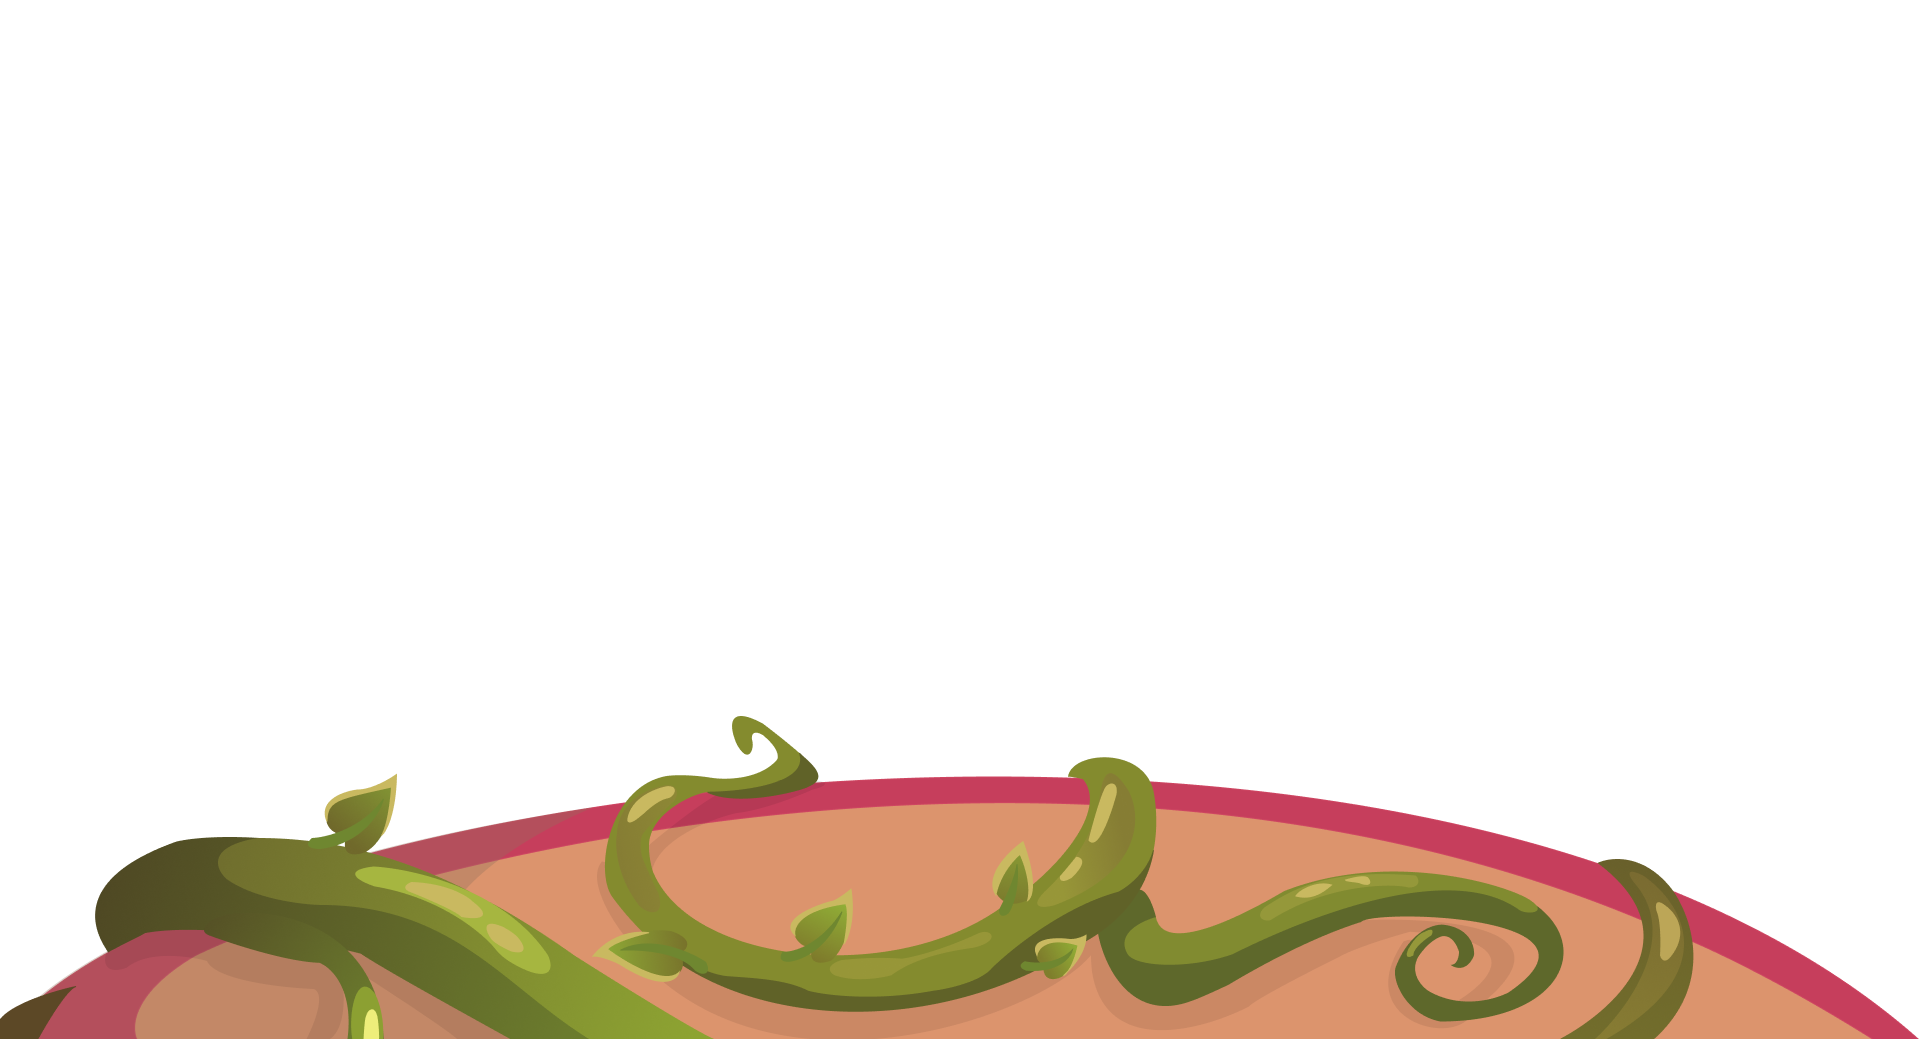
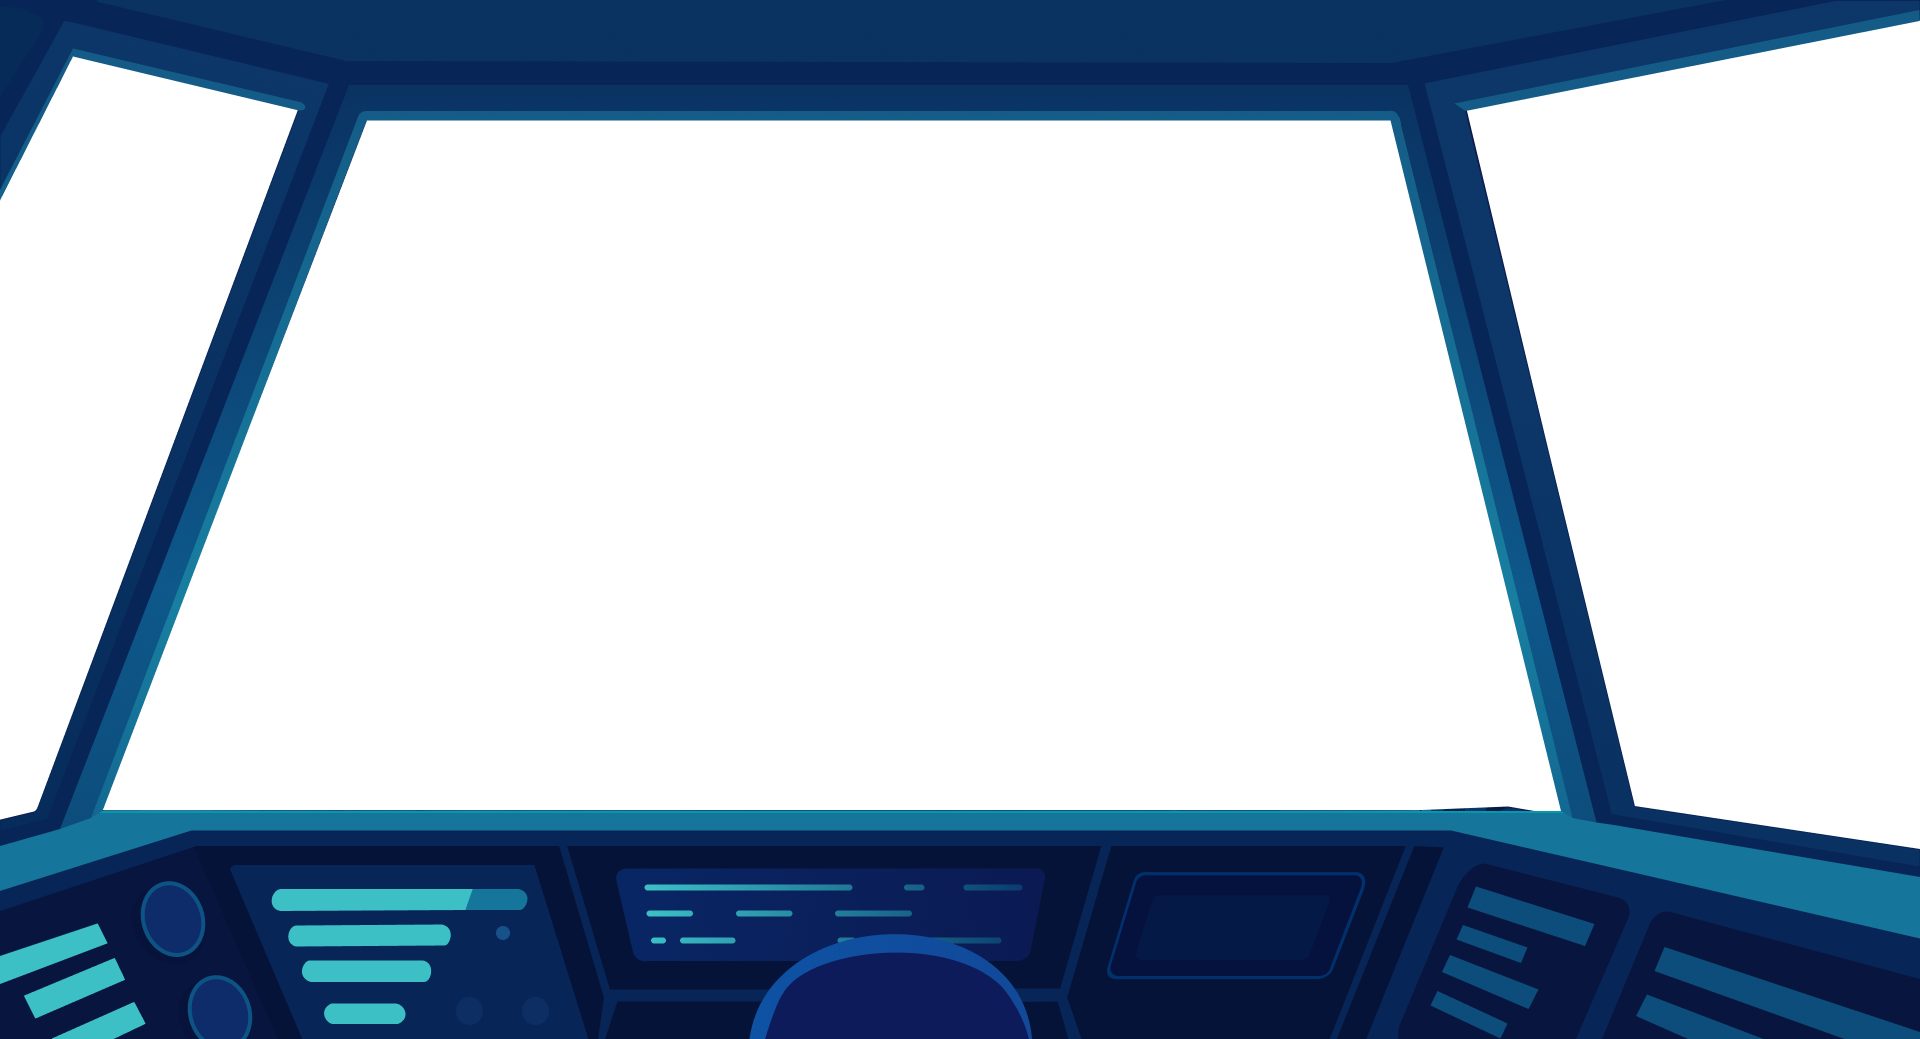
feat: base fase3

diff --git a/src/app/fase/3/GameScreen.tsx b/src/app/fase/3/GameScreen.tsx
@@ -1,0 +1,141 @@
+"use client";
+
+import NavbarGame from "@/components/NavbarGame";
+import Thermometer from "@/components/Thermometer";
+import Star from "@/components/Star";
+import SettingsModal from "@/components/SettingsModal";
+import { useEffect, useState } from "react";
+import { Bolt } from "lucide-react";
+import { useGameContext } from "@/context/GameContext";
+import { AnimatedElement } from "@/components/AnimatedElements/AnimatedElement";
+import { useGameLogic } from "./useGameLogic";
+import { animatedElements } from "@/config/gameConfig";
+import TimeOut from "@/components/TimeOut";
+import SuccessScreen from "@/components/SuccessScreen";
+import { useAudio } from "@/context/AudioContext";
+import OverlayInstruction from "@/components/Calibration/OverlayInstruction";
+import { fase1Steps } from "@/constants/steps";
+
+export default function GameScreen() {
+  const { stars, level, handleHit, handleError } = useGameLogic();
+  const [isModalOpen, setIsModalOpen] = useState(false);
+  const [isTimeUpModalOpen, setIsTimeUpModalOpen] = useState(false);
+  const {
+    isPaused,
+    setIsPaused,
+    setIsGameActive,
+    audioGameStarted,
+    setAudioGameStarted,
+    isGameActive,
+    hits,
+    timeLeft,
+  } = useGameContext();
+  const [showSuccessModal, setShowSuccessModal] = useState(false);
+
+  const { startAudio } = useAudio();
+
+  const handleStartGame = () => {
+    setIsGameActive(true);
+    setAudioGameStarted(true);
+    startAudio();
+  };
+
+  useEffect(() => {
+    if (timeLeft === 0) {
+      setIsTimeUpModalOpen(true);
+      setIsPaused(true);
+    }
+  }, [timeLeft]);
+
+  useEffect(() => {
+    if (hits === 5) {
+      setShowSuccessModal(true);
+      setIsPaused(true);
+    }
+  }, [hits]);
+
+  return (
+    <>
+      {isModalOpen ? (
+        <div className="flex items-center justify-center min-h-screen">
+          <SettingsModal
+            isStoppedGame={true}
+            onClick={() => {
+              setIsModalOpen(false);
+              setIsPaused(false);
+              startAudio();
+            }}
+          />
+        </div>
+      ) : (
+        <div className="fase3 relative w-full h-screen overflow-hidden">
+          <div className="flex justify-center mt-6 z-20">
+            <NavbarGame label="ENCONTRE E FIXE OS OLHOS NOS 5 ALVOS DURANTE 5 SEGUNDOS" />
+          </div>
+
+          <div>
+            <div className="sinalizador brilhando" />
+            <div className="base-sinalizador" />
+          </div>
+
+          <div className="absolute top-44 ml-6 z-20">
+            <Thermometer level={level} />
+          </div>
+
+          {!audioGameStarted && (
+            <OverlayInstruction onComplete={handleStartGame} steps={fase1Steps} />
+          )}
+
+          {isTimeUpModalOpen && (
+            <div className="absolute inset-0 z-50 bg-black/70 flex items-center justify-center">
+              <TimeOut />
+            </div>
+          )}
+
+          {showSuccessModal && (
+            <div className="absolute inset-0 z-50 bg-black/70 flex items-center justify-center">
+              <SuccessScreen fase={2} />
+            </div>
+          )}
+
+          <button
+            type="button"
+            aria-label="Open settings"
+            className="bg-[var(--primary)] z-20 w-11 h-11 rounded-full absolute flex items-center justify-center button-glow transition-all duration-300 top-9 right-9"
+            onClick={() => {
+              setIsModalOpen(true);
+              setIsPaused(true);
+            }}
+          >
+            <Bolt color="white" />
+          </button>
+
+          <div className="h-[70%] w-screen ml-32 relative">
+            {stars.map((star) => (
+              <Star
+                key={star.id}
+                top={star.top}
+                left={star.left}
+                onRemove={() => handleHit(star.id)}
+                onError={handleError}
+              />
+            ))}
+          </div>
+
+          <div className="h-screen w-screen relative">
+            {isGameActive &&
+              animatedElements.map((item) => (
+                <AnimatedElement
+                  key={item.id}
+                  id={item.id}
+                  src={item.src}
+                  duration={item.duration}
+                  isPaused={isPaused}
+                />
+              ))}
+          </div>
+        </div>
+      )}
+    </>
+  );
+}

diff --git a/src/app/globals.css b/src/app/globals.css
@@ -64,6 +64,42 @@ body {
   min-height: 10vh;
 }
 
+.fase3{
+  background-image: url("/img/planetas/planet3.png");
+  background-size: cover;
+  background-position: center;
+  background-repeat: no-repeat;
+  min-height: 100vh;
+}
+
+.sinalizador {
+  z-index: 10;
+  position: absolute;
+  bottom: 28%; /* porcentagem baseada na altura da imagem */
+  left: 14%;   /* porcentagem baseada na largura da imagem */
+  width: 1.8%;
+  height: 12%;
+  background: red;
+  border-radius: 3px;
+  box-shadow: 0 0 10px rgba(255, 0, 0, 0);
+  transition: all 0.3s ease;
+}
+
+.sinalizador.brilhando {
+  background: #ff0000;
+  box-shadow: 0 0 55px 50px rgba(255, 0, 0, 0.6);
+}
+
+.base-sinalizador{
+  position: absolute;
+  bottom: 18%; /* porcentagem baseada na altura da imagem */
+  left: 14.3%;   /* porcentagem baseada na largura da imagem */
+  width: 1.1%;
+  height: 12%;
+  background: #14779F;
+  border-radius: 3px;
+}
+
 .thermometer-img {
   background-image: url("/img/thermometer.svg");
   background-position: center;

diff --git a/src/app/fase/3/useGameLogic.ts b/src/app/fase/3/useGameLogic.ts
@@ -1,0 +1,31 @@
+import { useEffect, useState } from "react";
+import { useRandomStars } from "@/hooks/useRandomStars";
+import { useGameContext } from "@/context/GameContext";
+
+export function useGameLogic() {
+  const [stars, setStars] = useState<{ top: number; left: number; id: number }[]>([]);
+  const [level, setLevel] = useState(0);
+  const { hits, setHits, errors, setErrors } = useGameContext();
+  const { generate } = useRandomStars(5);
+
+  useEffect(() => {
+    setStars(generate());
+  }, []);
+
+  const handleRemove = (id: number) => {
+    setStars((prev) => prev.filter((s) => s.id !== id));
+  };
+
+  const handleHit = (id: number) => {
+    setLevel((l) => Math.min(l + 20, 100));
+    setHits(hits + 1);
+    handleRemove(id);
+  };
+
+  const handleError = () => {
+    setErrors(errors + 1);
+    setLevel((l) => Math.max(l - 15, 0));
+  };
+
+  return { stars, level, handleHit, handleError };
+}

diff --git a/src/app/fase/3/page.tsx b/src/app/fase/3/page.tsx
@@ -1,0 +1,5 @@
+import GameScreen from "./GameScreen";
+
+export default function Fase1() {
+  return <GameScreen />;
+}